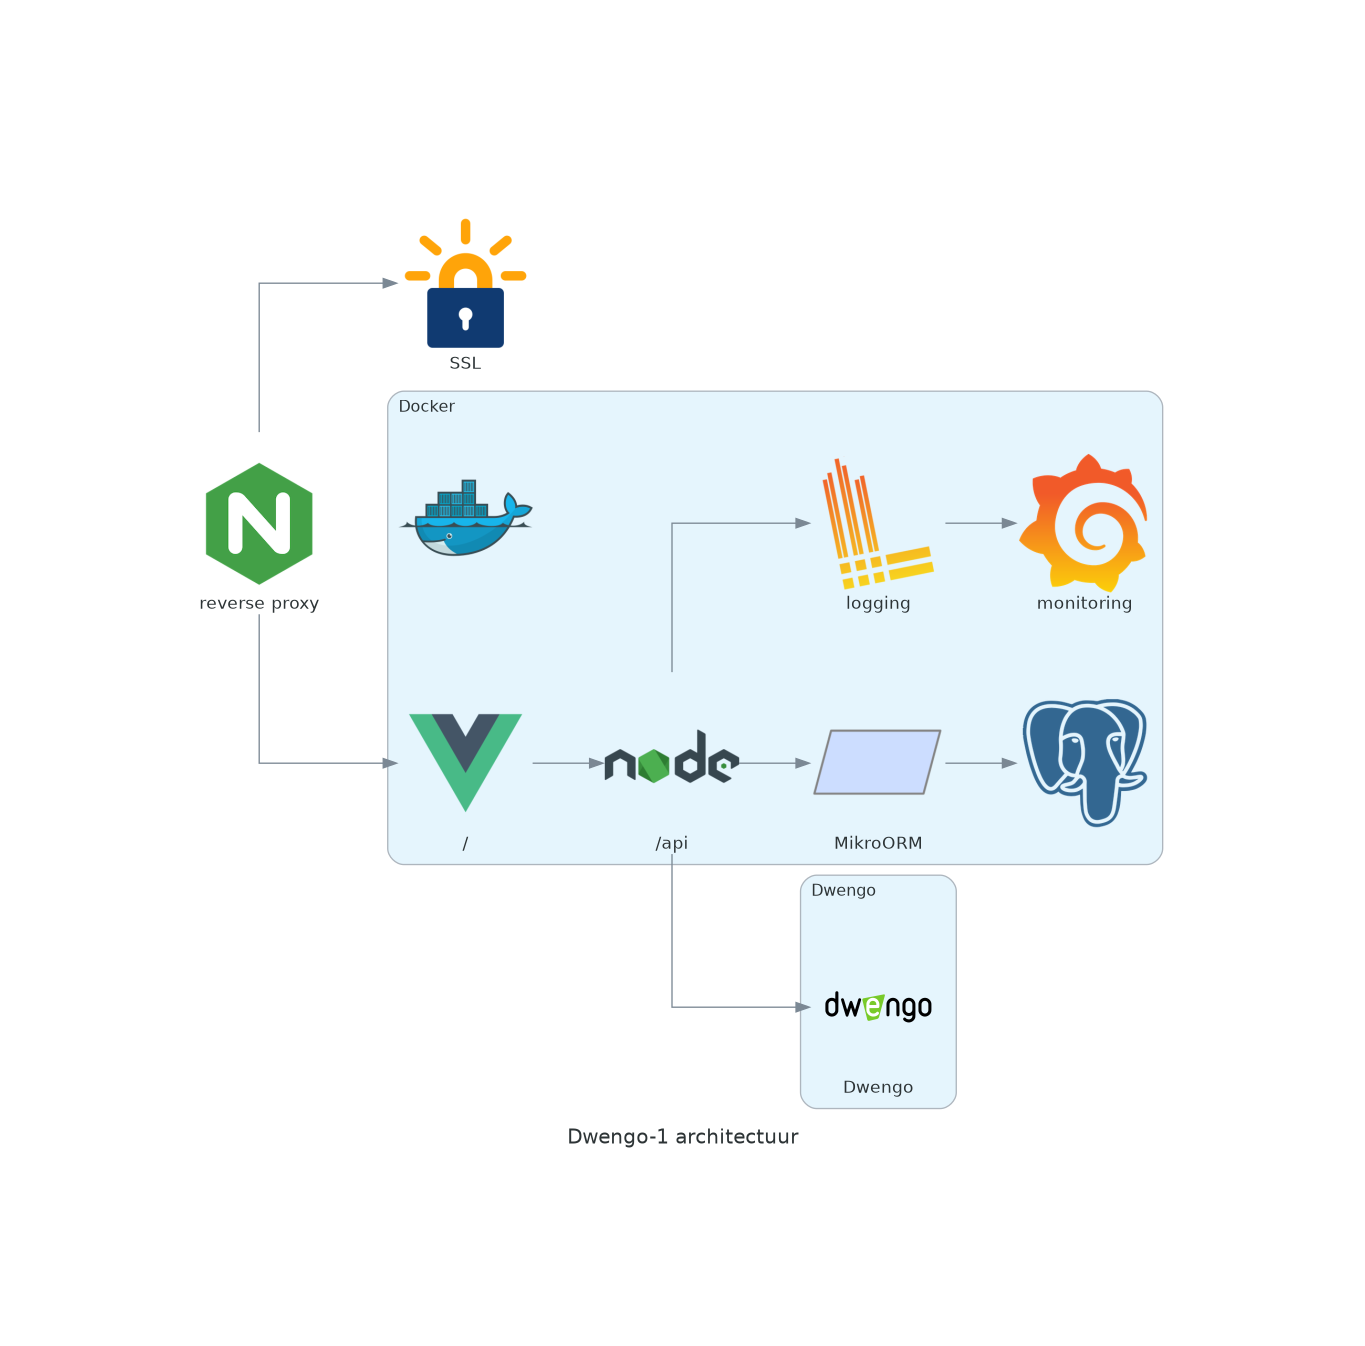
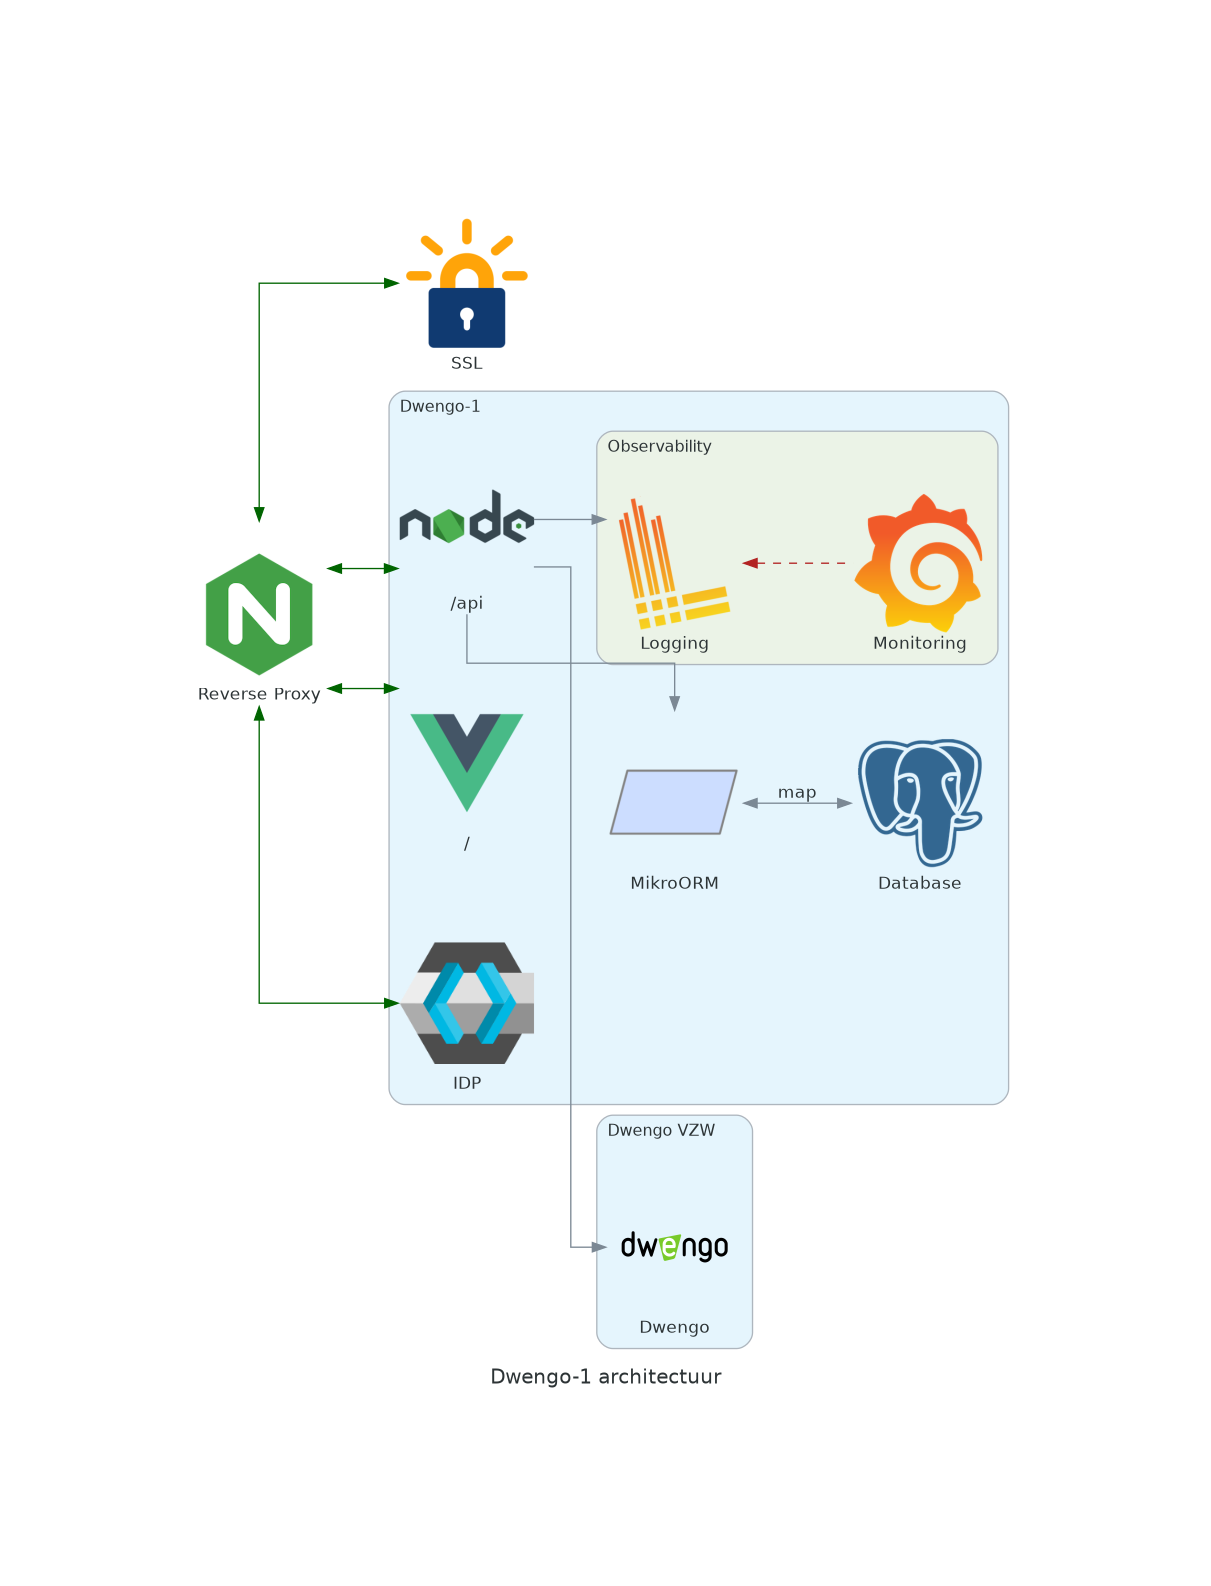
docs: Voeg Keycloak aan architectuur-overzicht toe

Changed region(s): [[0.1528, 0.1248, 0.8555, 0.8737]]

diff --git a/docs/architecture/schema.py b/docs/architecture/schema.py
@@ -1,30 +1,49 @@
-from diagrams import Cluster, Diagram
+from diagrams import Cluster, Diagram, Edge
 from diagrams.custom import Custom
 from diagrams.onprem.certificates import LetsEncrypt
-from diagrams.onprem.container import Docker
 from diagrams.onprem.database import PostgreSQL
 from diagrams.onprem.logging import Loki
 from diagrams.onprem.monitoring import Grafana
 from diagrams.onprem.network import Nginx
+from diagrams.programming.flowchart import InputOutput
 from diagrams.programming.framework import Vue
 from diagrams.programming.language import Nodejs
-from diagrams.programming.flowchart import InputOutput
 
 with Diagram("Dwengo-1 architectuur", filename="docs/architecture/schema", show=False):
-    reverse_proxy = Nginx("reverse proxy")
-    reverse_proxy >> LetsEncrypt("SSL")
+    ingress = Nginx("Reverse Proxy")
+    certificates = LetsEncrypt("SSL")
 
-    with Cluster("Docker"):
-        Docker()
-
-        frontend = Vue("/")
-        backend = Nodejs("/api")
-        reverse_proxy >> frontend
-        frontend >> backend >> InputOutput("MikroORM") >> PostgreSQL()
-
-        backend >> Loki("logging") >> Grafana("monitoring")
-
-    with Cluster("Dwengo"):
+    with Cluster("Dwengo VZW"):
         dwengo = Custom("Dwengo", "../../assets/img/dwengo-groen-zwart.png")
 
-    backend >> dwengo
+    with Cluster("Dwengo-1"):
+        frontend = Vue("/")
+        backend = Nodejs("/api")
+        identity_provider = Custom("IDP", "../../assets/img/keycloak.png")
+
+        database = PostgreSQL("Database")
+        orm = InputOutput("MikroORM")
+        orm >> Edge(label="map") << database
+
+        with Cluster("Observability"):
+            logging = Loki("Logging")
+            logging << Edge(color="firebrick", style="dashed") << Grafana("Monitoring")
+
+        dependencies = [
+            dwengo,
+            logging,
+            orm
+        ]
+
+        backend >> dependencies
+
+    service = [
+        frontend,
+        backend,
+        identity_provider,
+        certificates
+    ]
+
+    ingress \
+    >> Edge(color="darkgreen") \
+    << service

diff --git a/README.md b/README.md
@@ -50,6 +50,7 @@ De tech-stack bestaat uit:
 
 - **Frontend**: TypeScript + Vue.js + Vuetify
 - **Backend**: TypeScript + Node.js + Express.js + TypeORM + PostgreSQL
+- **Identity provider**: Keycloak
 
 Voor meer informatie over de keuze van deze tech-stack, zie [designkeuzes](https://github.com/SELab-2/Dwengo-1/wiki/Developer:-Design-keuzes).
 
